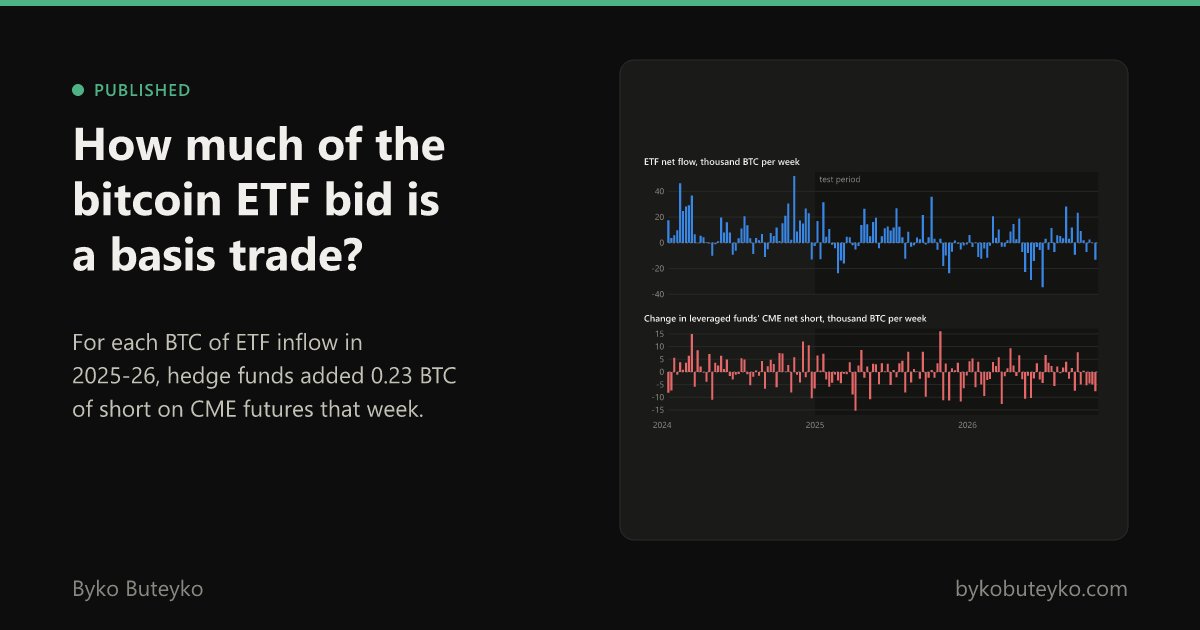
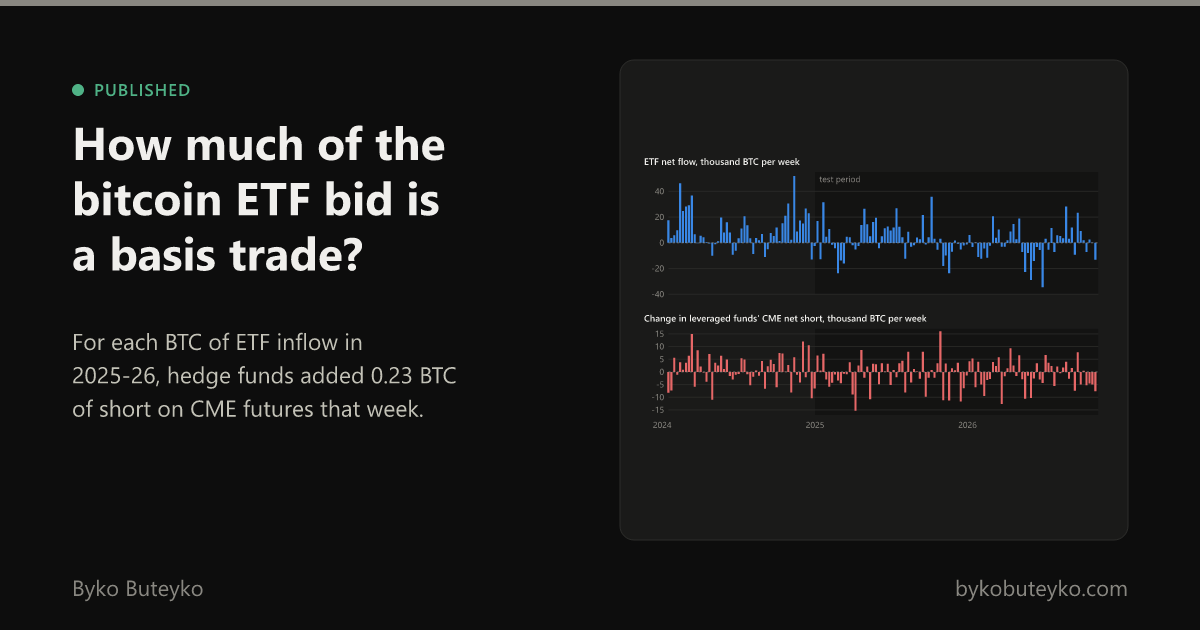
Gray top stripe on the preview cards

Changed region(s): [[0.0, 0.0, 1.0, 0.0302]]

diff --git a/scripts/render.py b/scripts/render.py
@@ -57,7 +57,7 @@ def card(w, h, lines, name, top, bottom=40):
     out.append(text(64, h - bottom, "Byko Buteyko", 20, MUTED))
     out.append(text(w - 64, h - bottom, "bykobuteyko.com", 20, MUTED, anchor="end"))
     return (f'<svg xmlns="http://www.w3.org/2000/svg" width="{w}" height="{h}" viewBox="0 0 {w} {h}">'
-            f'<style>{STYLE}</style><rect width="{w}" height="{h}" fill="{BG}"/><rect width="{w}" height="6" fill="#4fb286"/>{"".join(out)}</svg>')
+            f'<style>{STYLE}</style><rect width="{w}" height="{h}" fill="{BG}"/><rect width="{w}" height="6" fill="{MUTED}"/>{"".join(out)}</svg>')
 
 
 IMAGES = {

diff --git a/scripts/og.py b/scripts/og.py
@@ -59,7 +59,7 @@ def status(x, y, color, label):
 
 
 def frame(body):
-    out = [f'<rect width="{W}" height="{H}" fill="{BG}"/>', f'<rect width="{W}" height="6" fill="{OK}"/>',
+    out = [f'<rect width="{W}" height="{H}" fill="{BG}"/>', f'<rect width="{W}" height="6" fill="{MUTED}"/>',
            *body, text(72, H - 34, "Byko Buteyko", 22, MUTED), text(W - 72, H - 34, "bykobuteyko.com", 22, MUTED, anchor="end")]
     return (f'<svg xmlns="http://www.w3.org/2000/svg" width="{W}" height="{H}" viewBox="0 0 {W} {H}">'
             f'<style>{STYLE}</style>{"".join(out)}</svg>')
